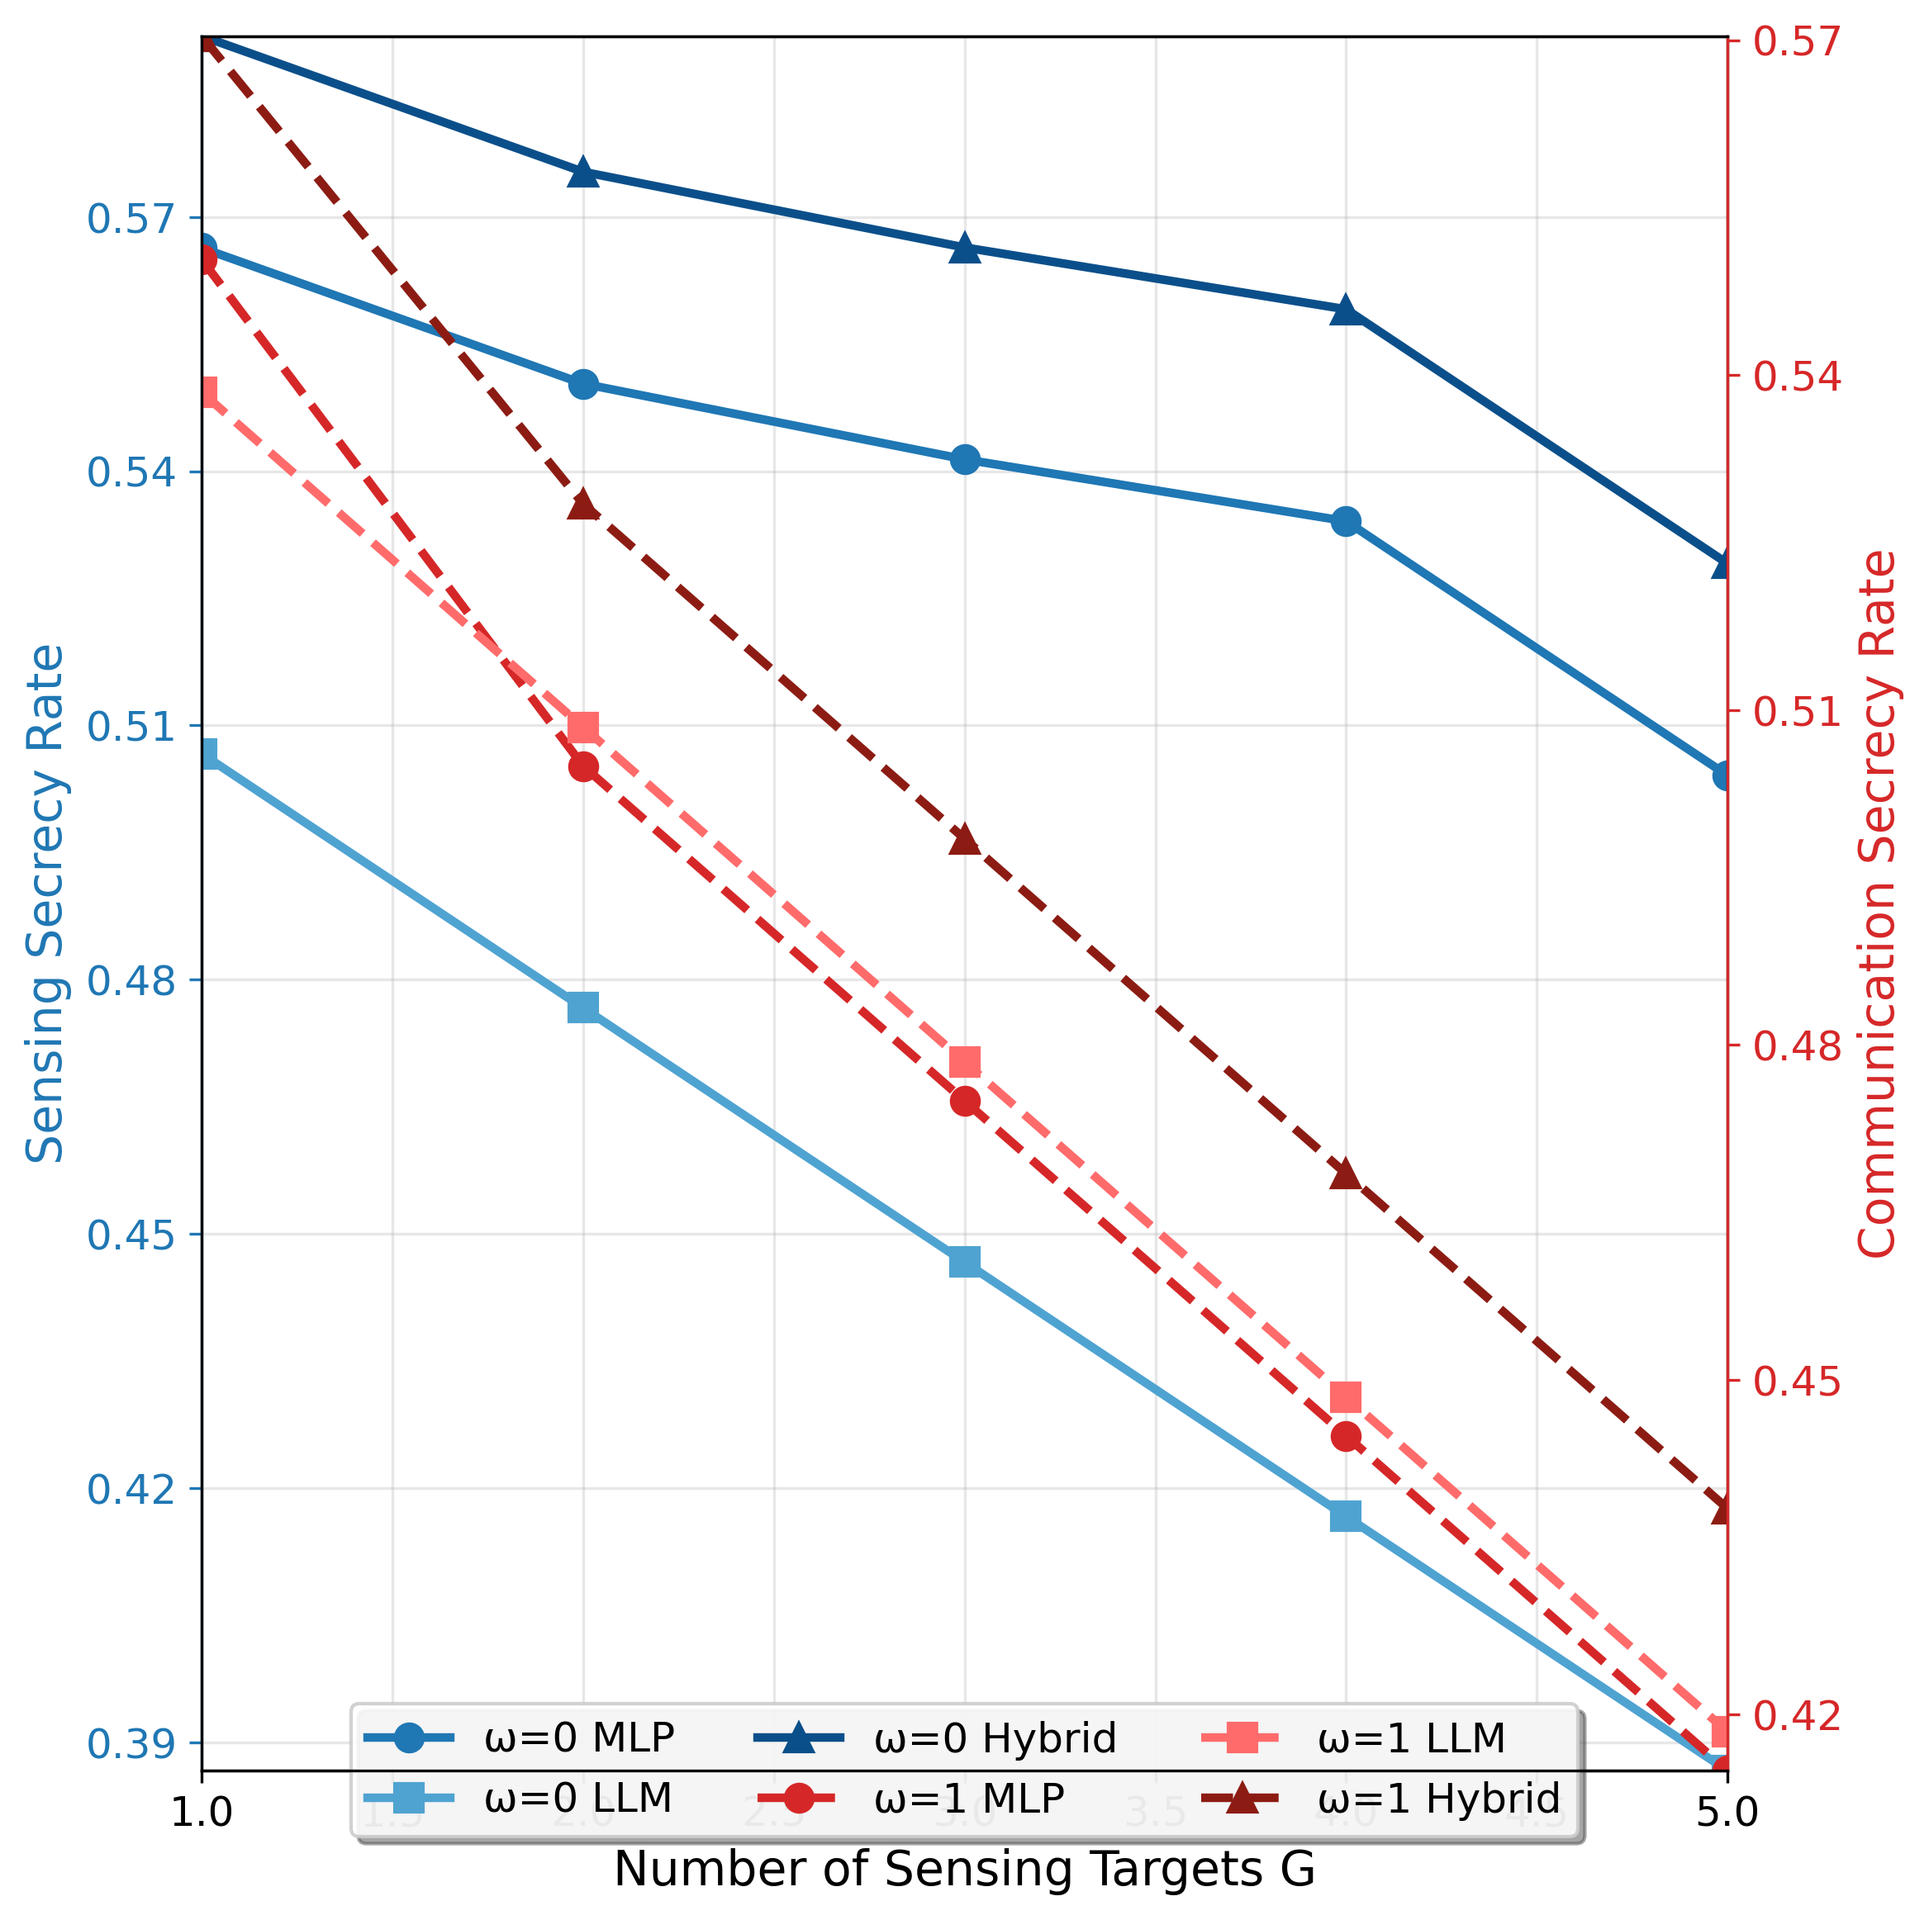
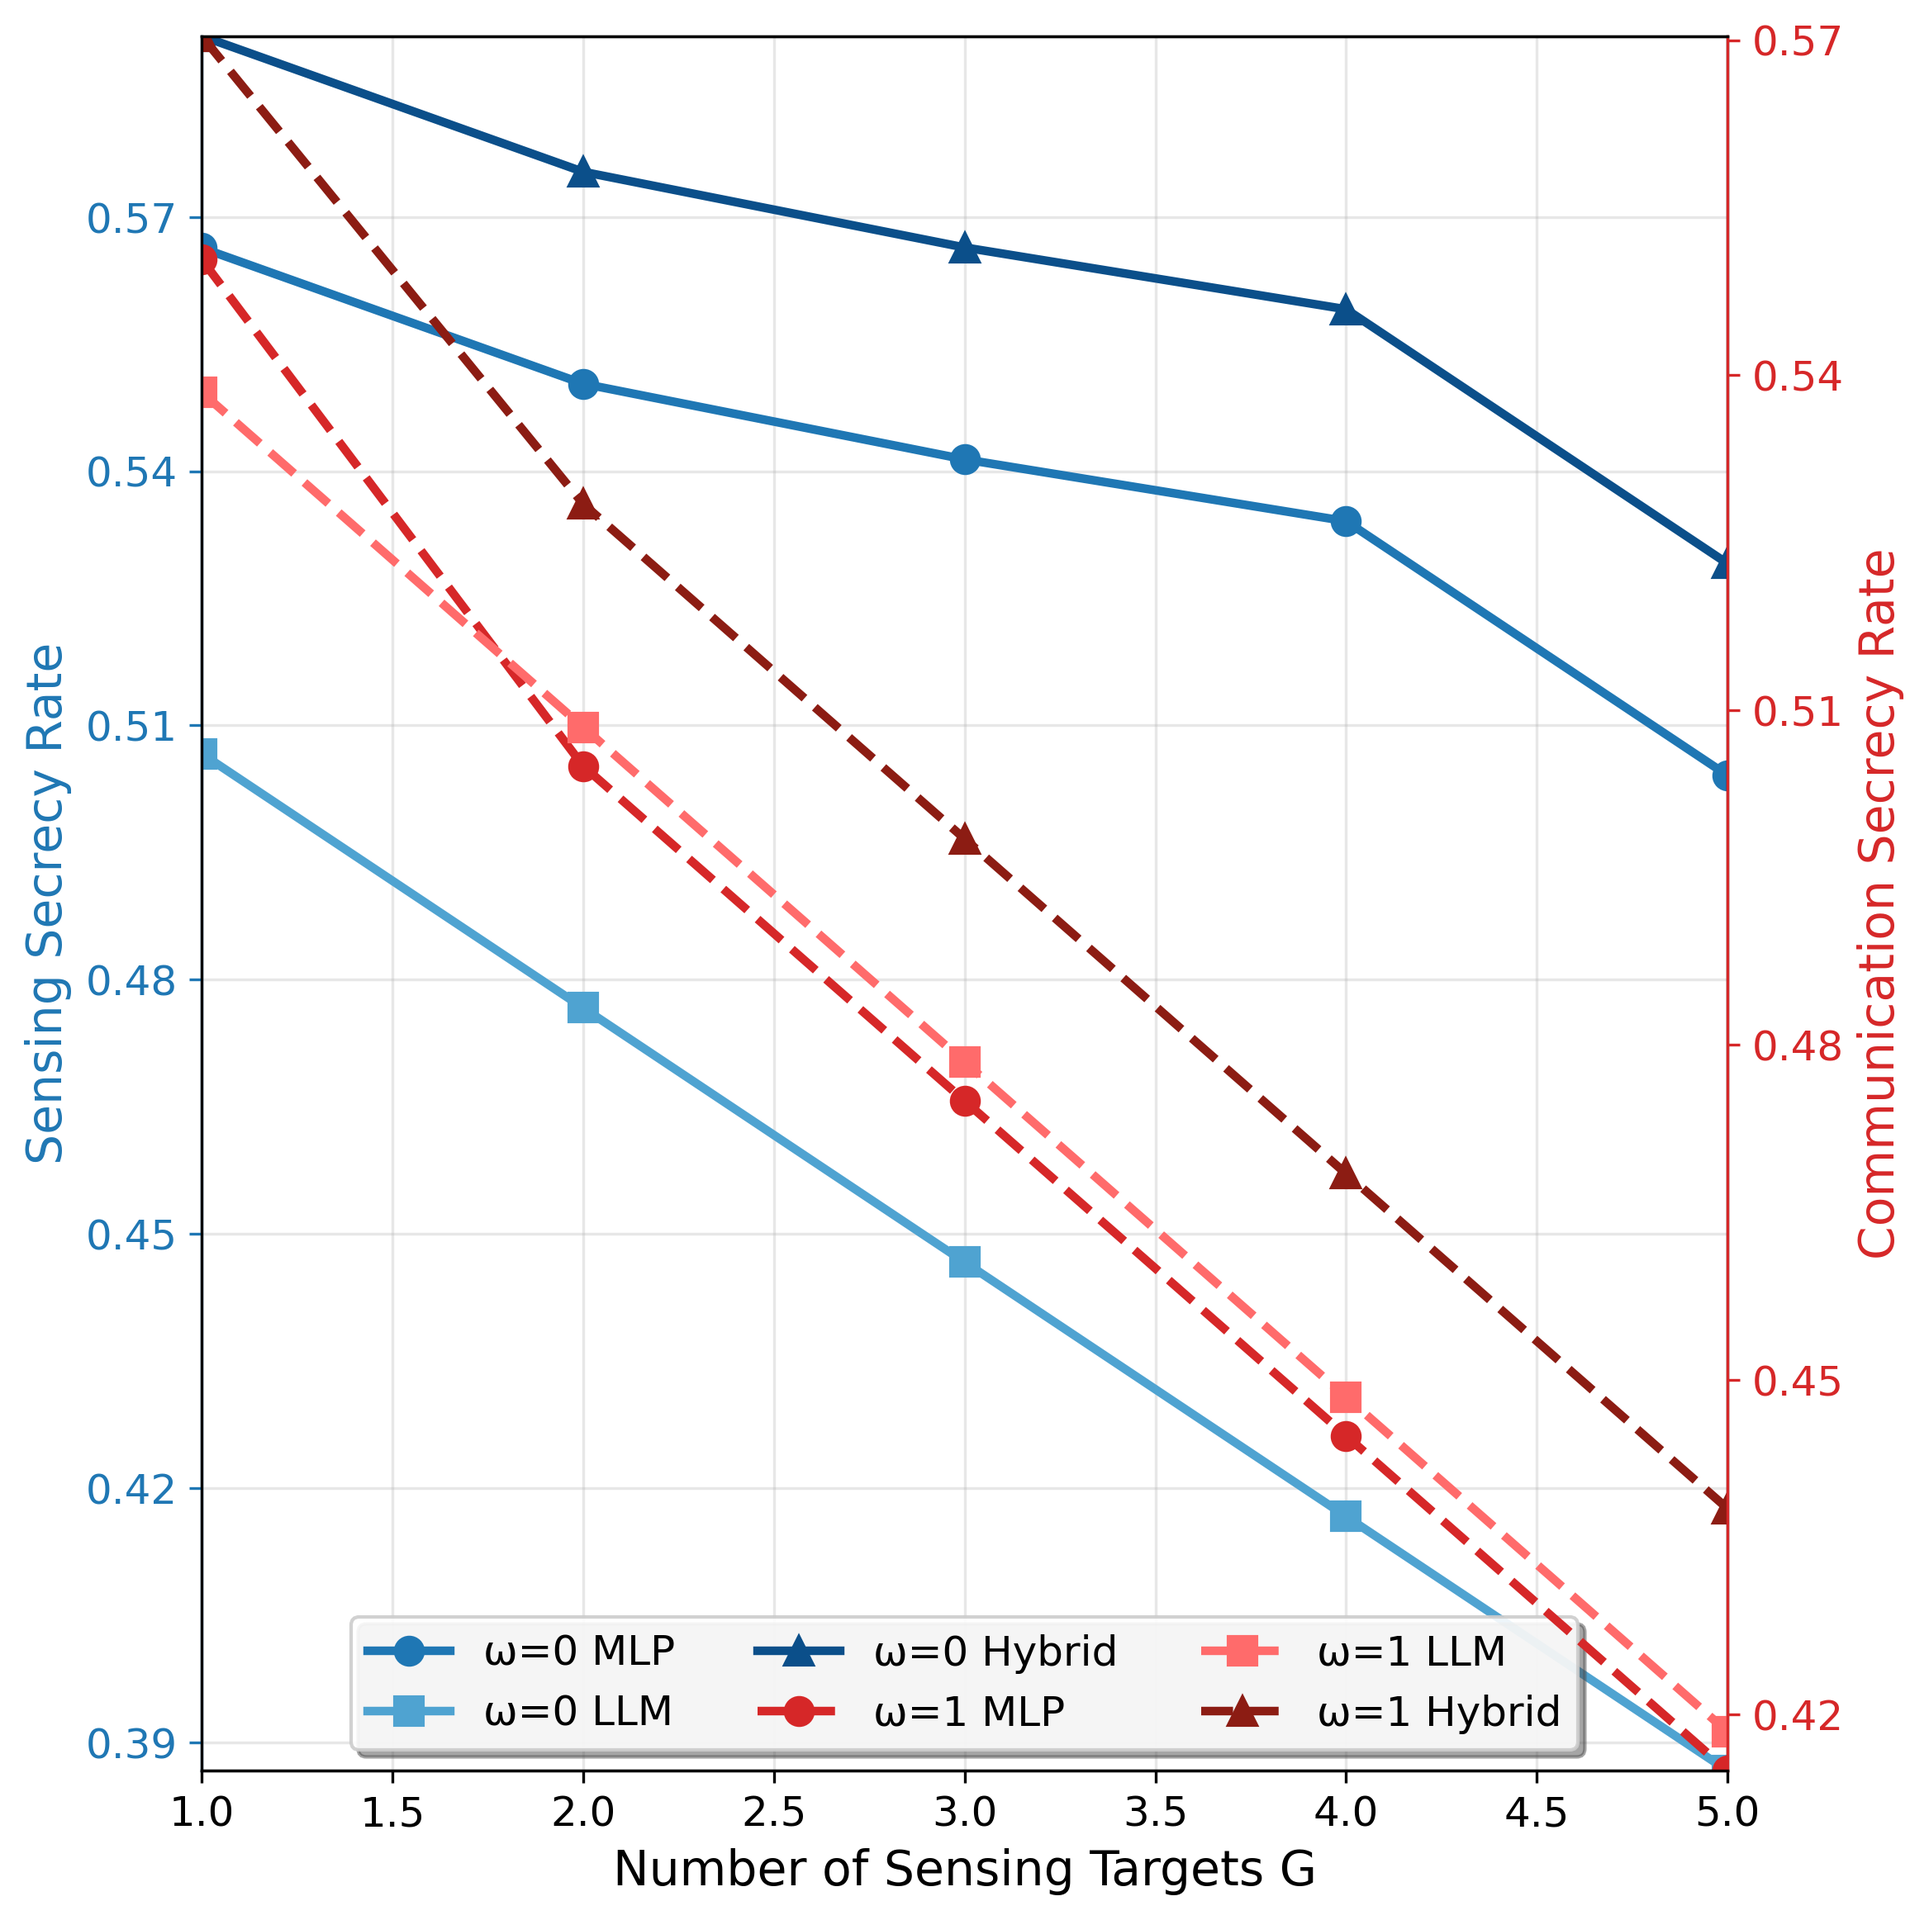
Fix Figure 3 legend: move legend inside plot box at lower center position

Changed region(s): [[0.185, 0.8361, 0.8325, 0.96]]

diff --git a/comprehensive_plots.py b/comprehensive_plots.py
@@ -356,11 +356,11 @@ def plot_rewards_vs_targets():
     ax_left.spines['top'].set_visible(True)
     ax_right.spines['top'].set_visible(True)
 
-    # Combined legend at bottom to avoid blocking lines
+    # Combined legend inside plot box at bottom
     lines_l, labels_l = ax_left.get_legend_handles_labels()
     lines_r, labels_r = ax_right.get_legend_handles_labels()
     ax_left.legend(lines_l + lines_r, labels_l + labels_r, loc='lower center', fontsize=12, ncol=3, frameon=True, 
-                   fancybox=True, shadow=True, framealpha=0.9, bbox_to_anchor=(0.5, -0.05))
+                   fancybox=True, shadow=True, framealpha=0.9)
 
     plt.tight_layout()
     plt.savefig(f"{plots_dir}/fig3_rewards_vs_targets.png", dpi=300, bbox_inches='tight')
